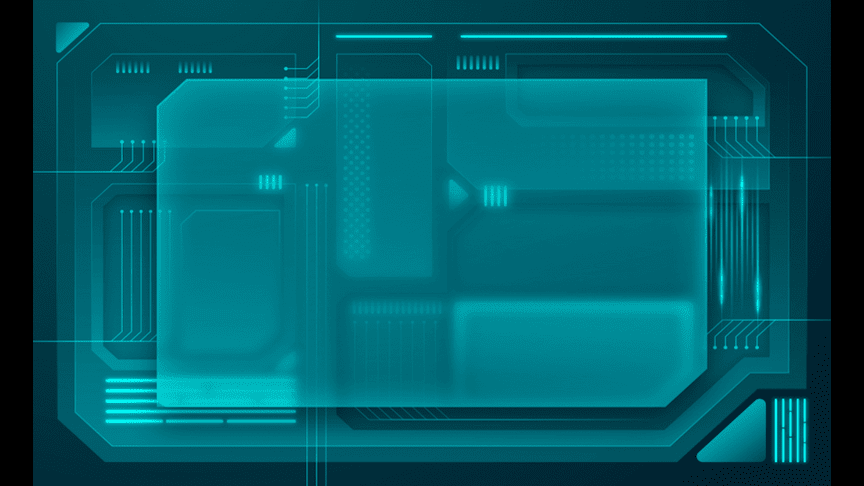
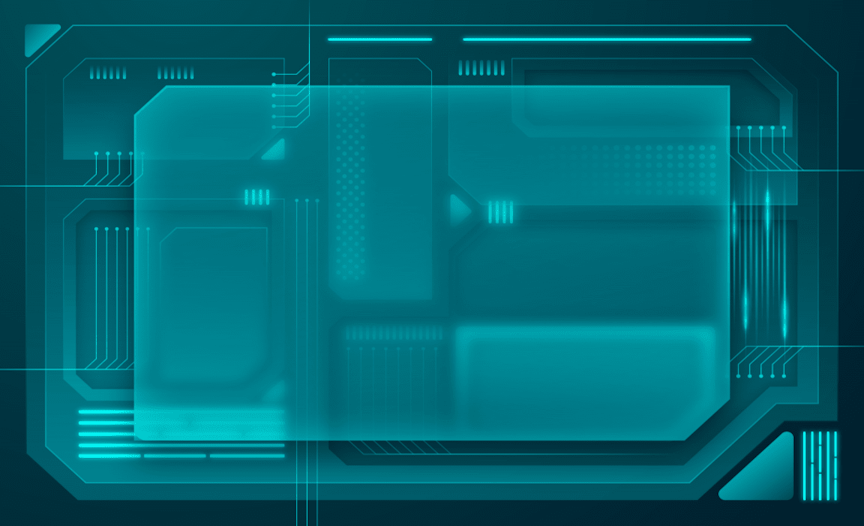
fixed image alignment

diff --git a/Phantom.Designer.cs b/Phantom.Designer.cs
@@ -195,6 +195,7 @@
             this.AutoScaleMode = System.Windows.Forms.AutoScaleMode.Font;
             this.BackColor = System.Drawing.Color.Black;
             this.BackgroundImage = ((System.Drawing.Image)(resources.GetObject("$this.BackgroundImage")));
+            this.BackgroundImageLayout = System.Windows.Forms.ImageLayout.None;
             this.ClientSize = new System.Drawing.Size(864, 486);
             this.Controls.Add(this.lblMenu);
             this.Controls.Add(this.lblCenter);
